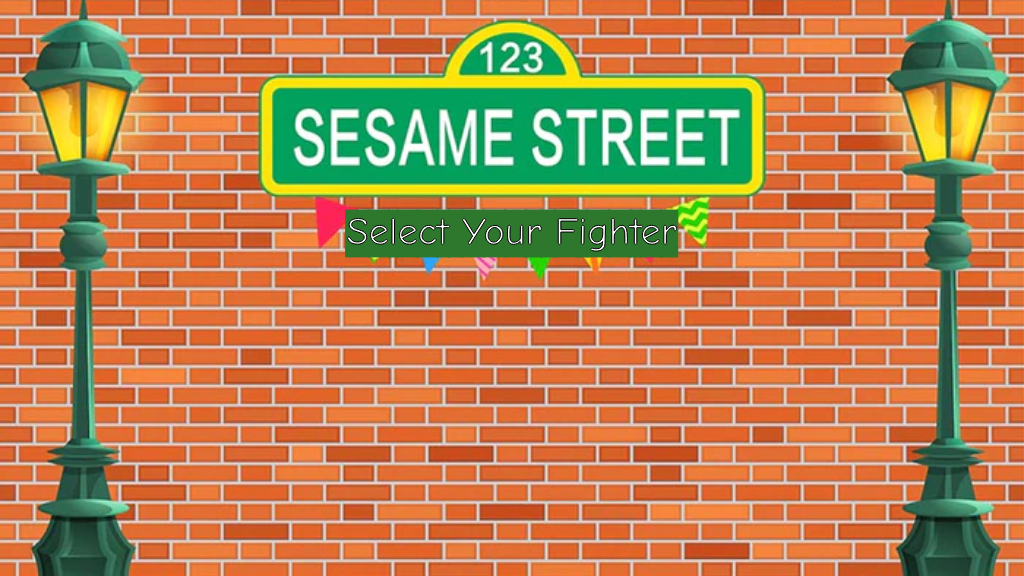
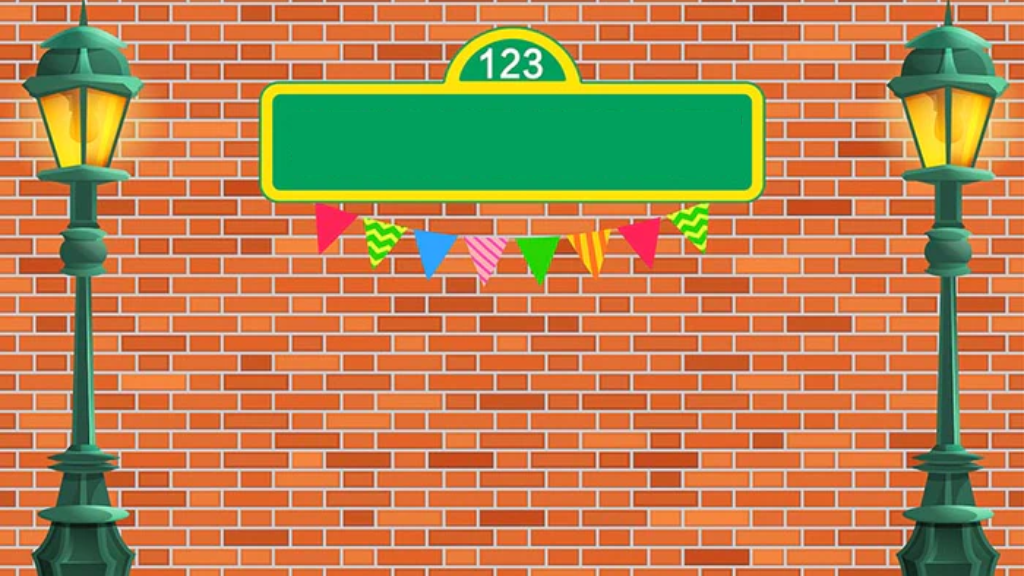
change select scene

diff --git a/src/scenes/CharacterSelectScene.js b/src/scenes/CharacterSelectScene.js
@@ -16,6 +16,7 @@ class CharacterSelectScene extends Phaser.Scene{
     create(){
         this.spaceKey = this.input.keyboard.addKey(Phaser.Input.Keyboard.KeyCodes.SPACE);
         this.add.image(this.config.width / 2, this.config.height / 2, "selection");
+        this.createLabel();
         this.createCharacterIcon();
         this.createCursor();
         this.createHand();
@@ -48,6 +49,14 @@ class CharacterSelectScene extends Phaser.Scene{
         }
     }
 
+    createLabel() {
+        this.label = this.add.text(this.config.width / 2 - 230, this.config.height / 2 - 165, "Select Fighter")
+            .setFontSize(35)
+            .setColor("#E3E3E3")
+            .setStroke("#0E0E0E", 10)
+            .setFontFamily("'8BIT WONDER', sans-serif");
+    }
+
     createCharacterIcon() {
         this.elmoIcon = new CharacterIcon(this,
             this.config.width/2 - 100,
@@ -74,7 +83,7 @@ class CharacterSelectScene extends Phaser.Scene{
             duration: 1000,
             yoyo: true,
             repeat: -1
-          });
+        });
         this.tweens.add({
             targets: this.rightHand,
             y: { from: this.config.height*0.7, to: this.config.height*0.5 },

diff --git a/src/scenes/ResultsScene.js b/src/scenes/ResultsScene.js
@@ -19,7 +19,7 @@ class ResultsScene extends Phaser.Scene{
       this.label = this.add.text(120, this.config.height/2-70, '')
           .setWordWrapWidth(600)
           .setColor("#E3E3E3")
-          .setStroke("#0E0E0E", 3)
+          .setStroke("#0E0E0E", 5)
           .setScale(1.2)
           .setFontFamily("'8BIT WONDER', sans-serif");
       this.quote = winnerPlayer.characterKey.quote;
